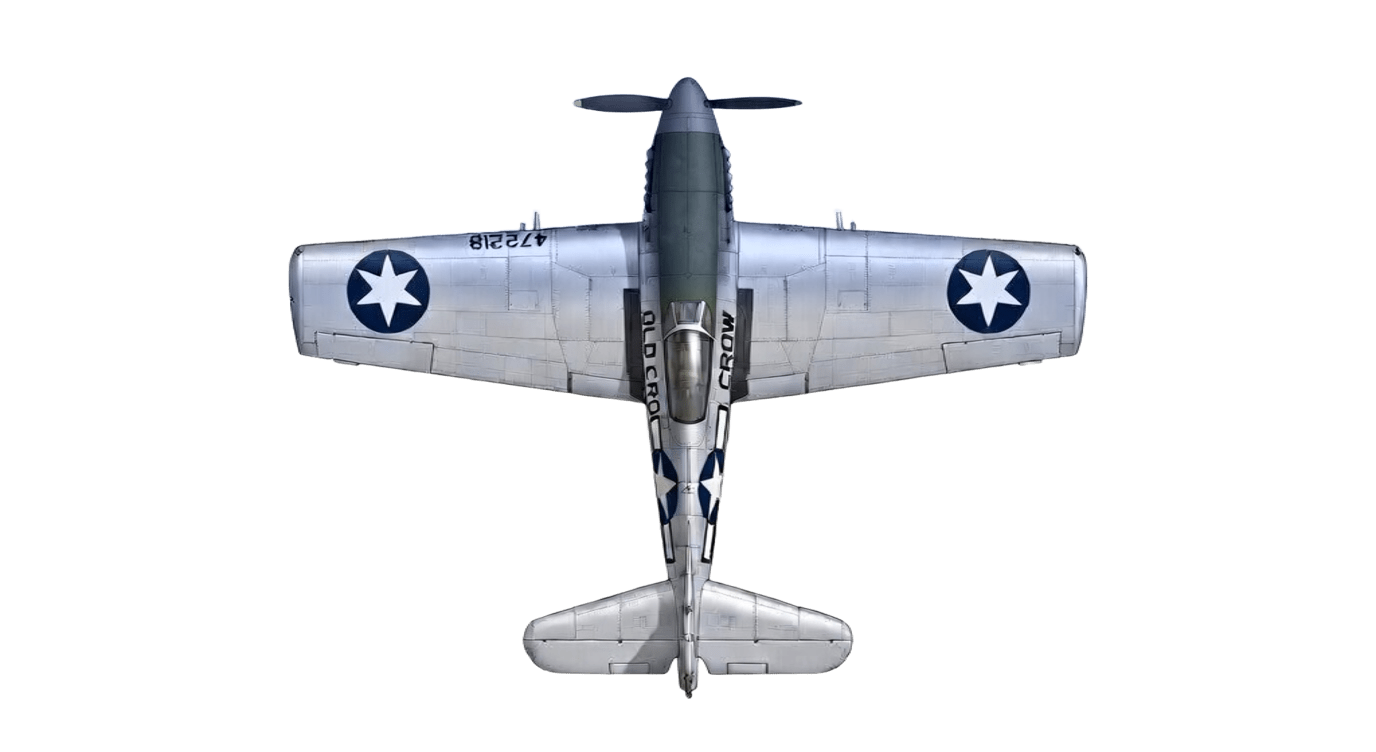
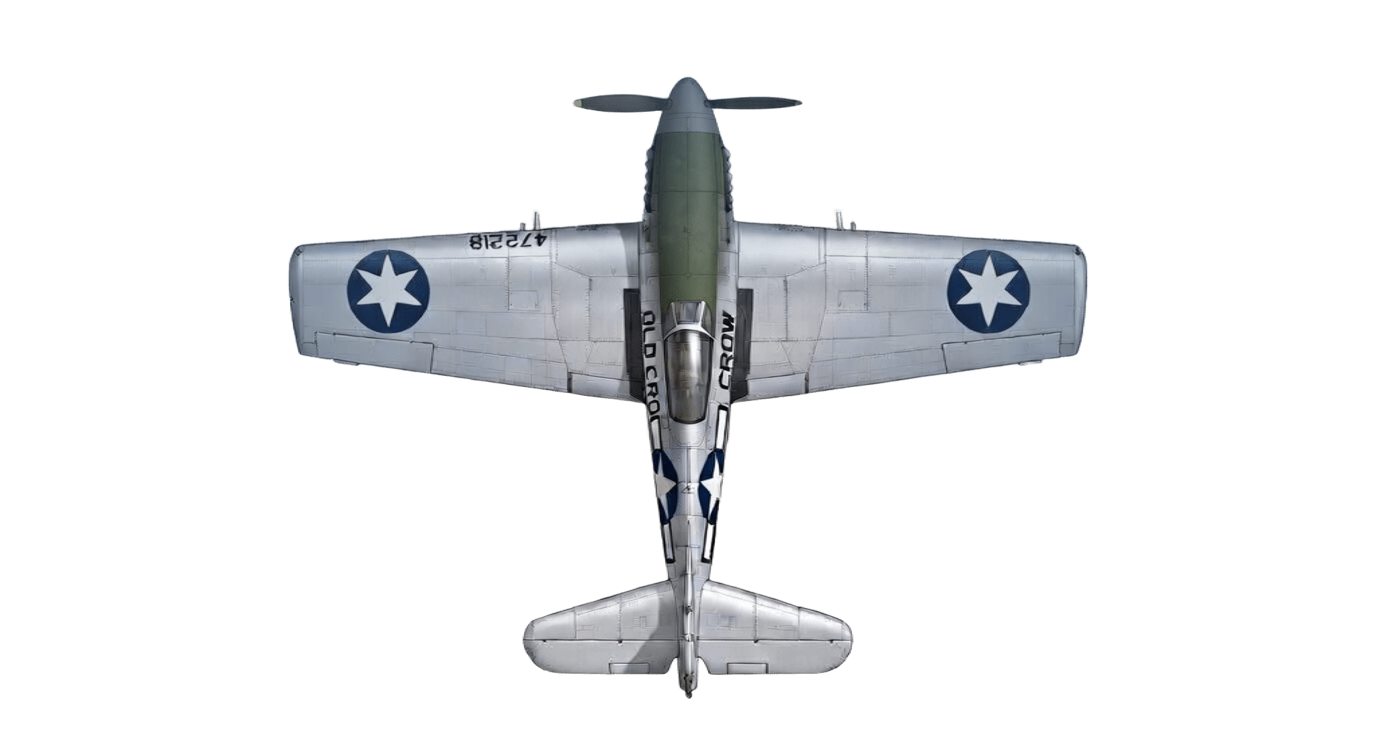
增加护甲

diff --git a/game.js b/game.js
@@ -46,8 +46,8 @@ const debugFlags = new URLSearchParams(window.location.search);
 const AIRFRAMES = {
   p51d: {
     id: "p51d",
-    assetPath: "./assets/aircraft/player/usa/P-51D-removebg-preview.png?v=20260409c",
-    armoredAssetPath: "./assets/aircraft/player/usa/P-51D-armored-removebg-preview.png?v=20260409c",
+    assetPath: "./assets/aircraft/player/usa/P-51D-removebg-preview.png?v=20260410c",
+    armoredAssetPath: "./assets/aircraft/player/usa/P-51D-armored-removebg-preview.png?v=20260410c",
     title: "P-51D Mustang",
     meta: "USN / Long-Range Strike",
     shortCode: "01",
@@ -2854,6 +2854,9 @@ function drawPlayer() {
   const drawCy = snapRenderCoord(p.y - 1);
   ctx.translate(drawCx, drawCy);
 
+  if (useArmored) {
+    ctx.filter = "contrast(1.08) saturate(1.12)";
+  }
   ctx.drawImage(sprite, -drawWidth / 2, -drawHeight * 0.74, drawWidth, drawHeight);
   ctx.restore();
 }

diff --git a/index.html b/index.html
@@ -129,6 +129,6 @@
         <p id="game-tip" class="bottom-bar__controls">Move: WASD or arrows · Shoot: Space · Missile: M · Pause: P or Esc · Skip/Confirm: Enter · Fullscreen: F · Practice: 1 / 2 / 3</p>
       </footer>
     </main>
-    <script src="./game.js?v=20260409d"></script>
+    <script src="./game.js?v=20260410d"></script>
   </body>
 </html>
